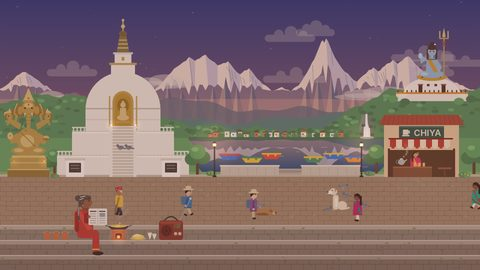
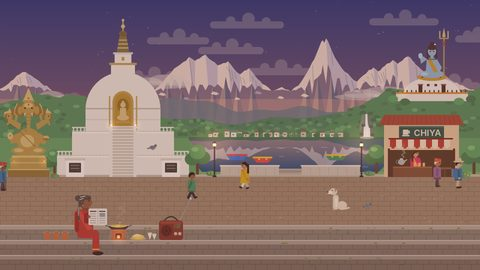
Pokhara: fewer pigeons and boats, one dog, wooded ridge behind the village, muted houses, snow patches at the mountain foot
Claude-Session: https://claude.ai/code/session_019ufPWj3H2YM7Ab3prv28rm

diff --git a/public/index.html b/public/index.html
@@ -1791,7 +1791,8 @@ function pkBoat(D,x,y,len,c1,c2,s=1){const hl=len/2;D.poly([x-hl,y-1.7*s,x+hl,y-
   D.rect(x-hl*.45,y-1.5*s,1.1*s,1*s,c2);D.rect(x+hl*.3,y-1.5*s,1.1*s,1*s,c2);}
 function pkrGround(D){const r=D.px?rnd:srnd;
   const ridge=(f)=>{const p=[0,LAKE_Y+1];for(let x=0;x<=320;x+=4)p.push(x,f(x));p.push(320,LAKE_Y+1);return p;};
-  D.poly(ridge(x=>79+2.6*Math.sin(x*.045+1)+1.4*Math.sin(x*.13)),'#4f7b74');
+  {const fr=x=>79+2.6*Math.sin(x*.045+1)+1.4*Math.sin(x*.13);D.poly(ridge(fr),'#47805a');   // a wooded ridge behind the far shore
+    for(let i=0;i<150;i++){const x=r()*320,t=fr(x),b=Math.min(pkHillY(x),LAKE_Y-1);if(b>t+1)D.ell(x,t+.6+r()*(b-t-.6),1.2+r()*1,.8+r()*.5,i%3===0?'#5c9a64':i%3===1?'#39704a':'#427a52');}}
   D.poly(ridge(pkHillY),'#4c8a57');
   for(let i=0;i<230;i++){const x=r()*320,t=pkHillY(x),y=t+1.2+r()*Math.max(1,LAKE_Y-t-3);D.ell(x,y,1.3+r()*1.2,.9+r()*.5,i%3===0?'#66a968':i%3===1?'#3f7449':'#447d4f');}
   // a waterfall down the hillside
@@ -1799,7 +1800,7 @@ function pkrGround(D){const r=D.px?rnd:srnd;
   D.poly([243.7,76,244.9,76,245.3,83.4,246.6,84.6,247,92,242.2,92,242.5,84.6,243.4,83.4],'#f2f8fa');D.poly([244,76,244.5,76,244.8,83.6,245.3,92,244.4,92,244.2,84],'#ffffff');
   [[242.2,83.6],[247.2,84.4],[241,89.4],[248.2,89.8]].forEach(([x,y])=>D.ell(x,y,1.4,1,'#4f5d50'));[[242,75],[247,75.6],[249,80]].forEach(([x,y])=>D.ell(x,y,2,1.3,'#3f7449'));
   // a far-away village on the other shore: small houses, old and new
-  {let q=77;const rr=()=>{q=(q*16807)%2147483647;return q/2147483647;},cols=[['#e9e2d2','#8a4a34'],['#c9785a','#6e3e2c'],['#f1e3b8','#7a4632'],['#e6ecef','#5d7f96'],['#f3d7c4','#b0553e'],['#d9e6d2','#4f7a5a']];
+  {let q=77;const rr=()=>{q=(q*16807)%2147483647;return q/2147483647;},cols=[['#e2ddd1','#8a6e5e'],['#d3c9b8','#7b6658'],['#e8e3d9','#74808a'],['#cbbfab','#846454'],['#dcd6ca','#8a7262']];
     for(let x=139;x<229;){const w=2.4+rr()*1.6,hh=1.8+rr()*2,[col,rf]=cols[(rr()*cols.length)|0],y=LAKE_Y-.6-hh;
       D.rect(x,y,w,hh+.2,col);if(rr()<.35)D.rect(x-.3,y-.5,w+.6,.6,rf);else D.poly([x-.5,y,x+w+.5,y,x+w-.5,y-1.2,x+.5,y-1.2],rf);
       D.rect(x+w*.3,y+hh*.35,.7,.8,'#4e2c1e');if(D.px&&rr()<.7)winGlow.push({x:x+w*.3,y:y+hh*.35,w:1,h:1,on:Math.random()<.6,a:.7,rand:1});
@@ -1907,7 +1908,7 @@ function pkrStatic(D){BGLOW=glowPk;
   pkShiva(D);[[262,66],[270,68],[306,67.6],[314,66]].forEach(([x,y],i)=>D.ell(x,y,3.4,2.4,i%2?'#3f7449':'#57a05c'));
   pkChiyaHouse(D);
   // painted boats pulled up at the shore
-  [[153,105.2,14,'#2f72d8','#e8443a'],[168,107.2,14,'#f2c230','#3e8e5e'],[181,104.8,13,'#e8443a','#f2c230'],[209,107,13,'#3e8e5e','#f2c230'],[222.6,104.8,14,'#2f72d8','#f2c230'],[236,106.8,13,'#f08a2a','#2f72d8']].forEach(([x,y,l,a,b2])=>pkBoat(D,x,y,l,a,b2,1.2));
+  [[158,105.4,14,'#2f72d8','#e8443a'],[175,107.2,13,'#e8443a','#f2c230'],[224,105.6,14,'#3e8e5e','#f2c230']].forEach(([x,y,l,a,b2])=>pkBoat(D,x,y,l,a,b2,1.2));
   pkMuralWall(D);
   pkGanesh(D);pAt(D,36,peaceStupa);
   pkTree(D,131.6,116.4,1.2);pkBush(D,140.4,117,.9,'#f2c230');pkBush(D,246,117,.9,'#e86fb4');pkBush(D,36,118.4,.8,'#e8443a');pkBush(D,309,118.2,1,'#f2c230');
@@ -1944,13 +1945,16 @@ function pkPeaks(D,col,my,full){const{R,S,SH,RIB,BUT}=PK_M,n=R.length;
   if(full)BUT.forEach(([x,y,wl,wr])=>{D.poly([x,my(y),x-wl,my(84),x+.6,my(84)],col.rockL);D.poly([x,my(y),x+.6,my(84),x+wr,my(84)],col.rockD);});
   {const p=[];R.forEach(([x,y])=>p.push(x,my(y)));for(let i=n-1;i>=0;i--)p.push(R[i][0],my(S[i]));D.poly(p,col.snow);}
   SH.forEach(([a,z])=>{const p=[];for(let i=a;i<=z;i++)p.push(R[i][0],my(R[i][1]));for(let i=z;i>a;i--)p.push(R[i][0]-(i===a+1?.2:0),my(S[i]));D.poly(p,col.snowS);});
-  if(full)RIB.forEach(([x1,y1,x2,y2])=>D.line(x1,my(y1),x2,my(y2),col.rib,.3));}
+  if(full){RIB.forEach(([x1,y1,x2,y2])=>D.line(x1,my(y1),x2,my(y2),col.rib,.3));
+    // a few patches of old snow lower down, near the foot of the mountains
+    [[30,66.5,1],[62,65,.8],[108,62.6,1],[124,65.4,.8],[143,62,1.1],[158,65.6,.8],[172,61.6,1],[187,64.8,.9],[203,63.4,1.1],[238,60.6,1],[251,63.6,.9],[267,65.2,1],[286,66,.8],[304,67.4,.9]].forEach(([x,y,k],i)=>{
+      D.poly([x-2.4*k,my(y+.6),x-.8*k,my(y-.9*k),x+1.4*k,my(y-.4),x+2.8*k,my(y+.7),x+.8*k,my(y+1.3*k)],i%3?col.snow:col.snowS);});}}
 const pkFootY=x=>70.5+3.6*Math.sin(x*.027+2.2)+2.4*Math.sin(x*.083+.6)+1.1*Math.sin(x*.21);
 function pkMtnCols(night,warm,B0){const N=hex('#2b3260');
   return{snow:css(mixA(mixA(mixA(hex('#fbfcfd'),hex('#ffc49a'),warm*.62),B0,.06),N,night*.42)),snowS:css(mixA(mixA(mixA(hex('#a9bbdb'),hex('#c98f96'),warm*.5),B0,.14),N,night*.5)),
     rock:css(mixA(mixA(mixA(hex('#69708f'),hex('#8a6470'),warm*.45),B0,.24),N,night*.5)),rockL:css(mixA(mixA(mixA(hex('#8f8c9c'),hex('#c08a72'),warm*.55),B0,.2),N,night*.5)),
     rockD:css(mixA(mixA(hex('#4e5778'),B0,.18),N,night*.5)),rib:css(mixA(mixA(hex('#5a6284'),B0,.15),N,night*.4),.85),
-    foot:css(mixA(mixA(mixA(hex('#465e72'),hex('#6a5a6a'),warm*.35),B0,.22),N,night*.55)),haze:css(mixA(B0,hex('#dfe8f0'),.25),.34)};}
+    foot:css(mixA(mixA(mixA(hex('#4c7786'),hex('#6a5a6a'),warm*.35),B0,.22),N,night*.55)),haze:css(mixA(B0,hex('#dfe8f0'),.25),.34)};}
 function pkCloudCol(night,warm){let cc=mixA(hex('#f4f6f8'),hex('#9aa1aa'),wx.rain);cc=mixA(cc,hex('#f2a07a'),warm*.45);return mixA(cc,hex('#2d3348'),night*.85);}
 function pkBlob(D,x,y,w,col){if(D.px){D.rect(x,y,w,4,col);D.rect(x+3,y-2,w-8,2,col);D.rect(x+7,y-4,Math.max(4,w-16),2,col);}
   else{D.ell(x+w*.5,y+1.6,w*.5,2.6,col);D.ell(x+w*.3,y-.4,w*.2,3,col);D.ell(x+w*.55,y-1.6,w*.24,3.8,col);D.ell(x+w*.76,y,w*.17,2.6,col);}}
@@ -2088,8 +2092,7 @@ function sMoto(w){const d=w.dir,ra=w.dist/3.1;C.save();C.translate(w.x,w.y);C.sc
   if(w.pillion)rider(-5.6,w.shirt2,w.helm2,false);rider(-1.2,w.shirt,w.helm,true);
   C.restore();w.lamp=[w.x+d*7.6,w.y-10.6];}
 
-const DOGS_PK=()=>[{...dogBase,x:226,y:140,dir:-1,mode:'sit',t:10,bx:134,bdir:1,sx:270,fur:'#e8dcc4',dk:'#b89a72',lt:'#fbf4e4',eye:'#2a1d14'},
-  {...dogBase,x:176,y:144,dir:1,mode:'sleep',t:16,bx:148,bdir:-1,sx:290,fur:'#b07a45',dk:'#7f552e',lt:'#d6a46e',eye:'#2a1d14'}];
+const DOGS_PK=()=>[{...dogBase,x:226,y:140,dir:-1,mode:'sit',t:10,bx:134,bdir:1,sx:270,fur:'#e8dcc4',dk:'#b89a72',lt:'#fbf4e4',eye:'#2a1d14'}];   // one street dog
 
 /* ---------- places: everything that changes when you move between durbar squares ---------- */
 const PL={
@@ -2110,7 +2113,7 @@ const PL={
     spots:[{x:82,y:100,w:80},{x:82,y:84,w:60},{x:281,y:76,w:44},{x:19,y:103,w:14},{x:193,y:109,w:86}],
     tstr:[],diyo:[],board:[-400,0],mir:false,ymin:124,dogs:DOGS_PK,
     visit:[{k:'chiya',x:292,y:125}],stairs:{x:82,ys:[112,106,100,94]},
-    tl:[[74,83],[90,83],[9,107],[29,107],[268,60],[308,60]],steam:[[269,105]],pig:[150,110],npig:7,nroof:2,
+    tl:[[74,83],[90,83],[9,107],[29,107],[268,60],[308,60]],steam:[[269,105]],pig:[150,110],npig:2,nroof:1,
     aria:'Pokhara: the five-headed Ganesh, the white World Peace Stupa, Phewa lake with painted boats under the snowy Annapurna range, the Shiva statue above a tea shop, people, cyclists, pigeons and street dogs, seen from the lakeside steps where an aama roasts makai and sits with a radio'}};
 const PLACE_ORDER=['ktm','patan','bkt','pkr'];
 let TLAMPS=PL.ktm.tl,STEAM=PL.ktm.steam,VISIT=PL.ktm.visit;
